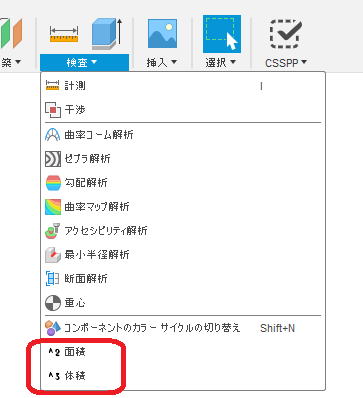
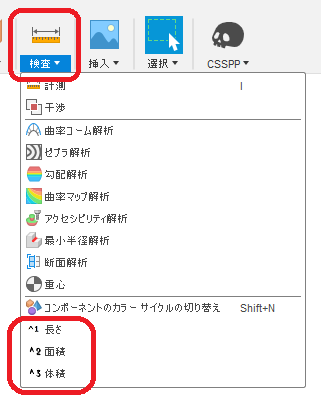
add total_length

diff --git a/MENSEKI_Addin/total_length.py b/MENSEKI_Addin/total_length.py
@@ -1,0 +1,70 @@
+#FusionAPI_python Addin
+#Author-kantoku
+#Description-selected total area
+
+import adsk.core, adsk.fusion, traceback
+from .Fusion360Utilities.Fusion360Utilities import AppObjects
+from .Fusion360Utilities.Fusion360CommandBase import Fusion360CommandBase
+
+_selInfo = ['dlgSel','エッジの選択','-']
+_txtInfo = ['dlgtxt','合計長さ','-']
+
+_covunit = 0.0
+_defLenUnit = ''
+
+class total_length(Fusion360CommandBase):
+
+    def on_input_changed(
+        self,
+        command: adsk.core.Command,
+        inputs: adsk.core.CommandInputs,
+        changed_input,
+        input_values):
+
+        global _selInfo
+        if changed_input.id != _selInfo[0]:
+            return
+
+        # Select Input
+        selIpt = changed_input
+        length = 0.0
+        for idx in range(selIpt.selectionCount):
+            length += selIpt.selection(idx).entity.length
+
+        global _covunit, _defLenUnit
+        length = length * _covunit
+        length_txt = '{:.3e}　{}\n{}　{}'.format(length, _defLenUnit, length, _defLenUnit)
+
+        selIpt.commandPrompt = '{0}　本合計\n'.format(selIpt.selectionCount) + length_txt
+
+        # Text Input
+        global _txtInfo
+        txtIpt :adsk.core.TextBoxCommandInput = inputs.itemById(_txtInfo[0])
+        txtIpt.text = length_txt
+
+    def on_create(
+        self,
+        command: adsk.core.Command,
+        inputs: adsk.core.CommandInputs):
+
+        # unit
+        global _defLenUnit, _covunit
+        ao = AppObjects()
+        unitsMgr = ao.units_manager
+        _defLenUnit = unitsMgr.defaultLengthUnits
+        tmp = unitsMgr.convert(1, unitsMgr.internalUnits, _defLenUnit)
+        _covunit = tmp
+
+        # command
+        command.isOKButtonVisible = False
+
+        global _selInfo
+        selIpt :adsk.core.SelectionCommandInput = inputs.addSelectionInput(
+            _selInfo[0], _selInfo[1], _selInfo[2])
+        selIpt.setSelectionLimits(0)
+        selIpt.addSelectionFilter('Edges')
+        selIpt.commandPrompt = _selInfo[1]
+
+        global _txtInfo
+        inputs.addTextBoxCommandInput(
+            _txtInfo[0], _txtInfo[1], _txtInfo[2], 2, True)

diff --git a/MENSEKI_Addin/MENSEKI_Addin.py b/MENSEKI_Addin/MENSEKI_Addin.py
@@ -11,6 +11,7 @@ from .Fusion360Utilities.Fusion360CommandBase import Fusion360CommandBase
 from .Fusion360Utilities.Fusion360Utilities import AppObjects
 from .total_area import total_area
 from .total_volume import total_volume
+from .total_length import total_length
 
 commands = []
 command_definitions = []
@@ -19,6 +20,18 @@ command_definitions = []
 debug = False
 
 def run(context):
+
+    # 長さ
+    cmd = {
+        'cmd_name': '長さ',
+        'cmd_description': '選択されたエッジの合計長さ',
+        'cmd_id': 'total_length_id',
+        'cmd_resources': './resources/total_length',
+        'workspace': 'FusionSolidEnvironment',
+        'toolbar_panel_id': 'InspectPanel',
+        'class': total_length
+    }
+    command_definitions.append(cmd)
 
     # 面積
     cmd = {

diff --git a/README.md b/README.md
@@ -3,7 +3,7 @@
 Autodesk社 ソフト <b>"Fusion360" </b> のアドインです。
 
 ## 特徴
-選択された複数面の合計面積、複数ボディの合計体積を表示します。
+選択された複数面の合計面積、複数ボディの合計体積、複数エッジの合計長さを表示します。
 
 (ゴリゴリの某3DCAD試験対策用）
 
@@ -24,7 +24,7 @@ https://knowledge.autodesk.com/ja/support/fusion-360/troubleshooting/caas/sfdcar
 
 ## 動作
 以下の環境にて確認。
-+ Fusion360 Ver2.0.7463
++ Fusion360 Ver2.0.9305
 + Windows10 64bit Pro
 
 ## 例
